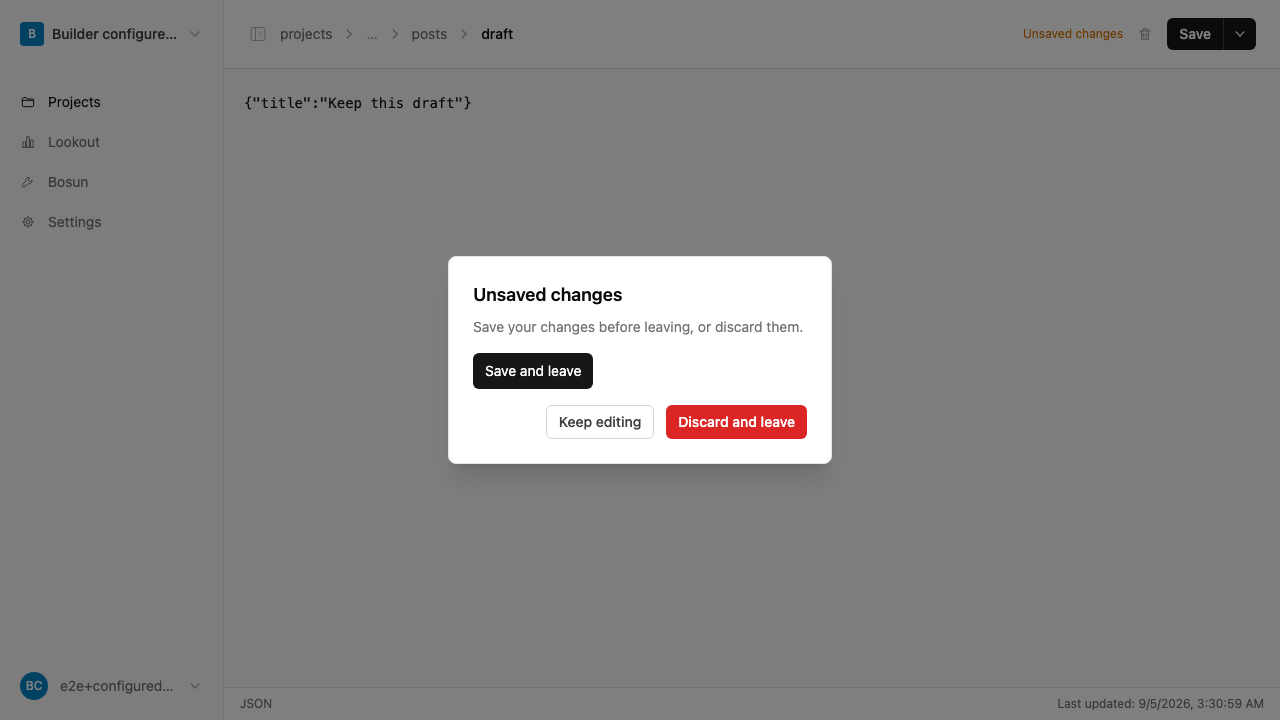
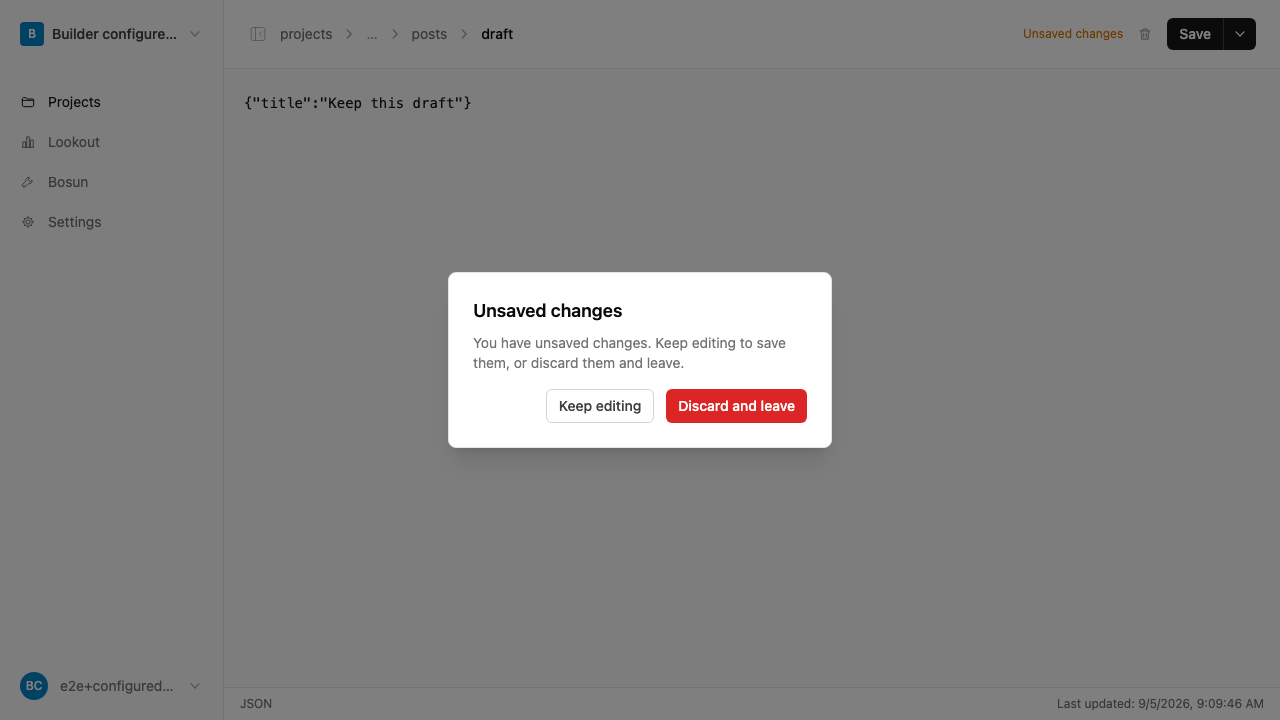
fix(ui): keep confirmations to two actions and use Klean alerts

Changed region(s): [[0.3438, 0.3361, 0.6562, 0.6417]]

diff --git a/tests/e2e/pages/projects/content-unsaved.test.js b/tests/e2e/pages/projects/content-unsaved.test.js
@@ -40,6 +40,9 @@ test(
       await source.fill('{"title":"Keep this draft"}')
       await page.raw.locator('[data-slot="breadcrumb"] a').first().click()
       await page.raw.getByRole('button', { name: 'Keep editing' }).waitFor()
+      await expect(
+        page.raw.getByRole('dialog').getByRole('button')
+      ).toHaveCount(2)
       fs.mkdirSync('.github/screenshots/audit-content-unsaved', {
         recursive: true
       })
@@ -60,16 +63,20 @@ test(
       expect(await source.inputValue()).toContain('Keep this draft')
       await source.fill('invalid JSON')
       await page.raw.locator('[data-slot="breadcrumb"] a').first().click()
-      await page.raw
-        .getByRole('button', { name: 'Save and leave', exact: true })
-        .click()
+      await page.raw.getByRole('button', { name: 'Keep editing' }).click()
+      await source.focus()
+      await page.key('ControlOrMeta+s')
       await page.raw.locator('#content-raw-error').waitFor()
       expect(await source.inputValue()).toBe('invalid JSON')
       await source.fill('{"title":"Keep this draft"}')
-      await page.raw.locator('[data-slot="breadcrumb"] a').first().click()
       await page.raw
-        .getByRole('button', { name: 'Save and leave', exact: true })
+        .locator('[data-test="content-save-menu"] button')
+        .first()
         .click()
+      await expect(
+        page.raw.getByRole('button', { name: 'Save', exact: true })
+      ).toBeDisabled()
+      await page.raw.locator('[data-slot="breadcrumb"] a').first().click()
       await page.raw.waitForURL((url) => url.pathname === '/')
       expect(
         fs.readFileSync(path.join(folder, 'draft.json'), 'utf8')
@@ -78,6 +85,13 @@ test(
       expect(
         await page.raw.getByRole('button', { name: 'Restore draft' }).count()
       ).toBe(0)
+      await source.fill('{"title":"Discard this edit"}')
+      await page.raw.locator('[data-slot="breadcrumb"] a').first().click()
+      await page.raw.getByRole('button', { name: 'Discard and leave' }).click()
+      await page.raw.waitForURL((url) => url.pathname === '/')
+      expect(
+        fs.readFileSync(path.join(folder, 'draft.json'), 'utf8')
+      ).toContain('Keep this draft')
       expect(page).toHaveNoJavascriptErrors()
     } finally {
       sails.config.custom.slipwayAppsDir = original

diff --git a/assets/js/pages/projects/content-editor.vue b/assets/js/pages/projects/content-editor.vue
@@ -71,7 +71,6 @@ let draftTimer
 let removeNavigationGuard
 let allowVisit = false
 let discardedOnLeave = false
-let leaveAfterSave = false
 
 function clearDraft() {
   try {
@@ -118,11 +117,6 @@ function leaveEditor() {
 }
 function cancelPendingVisit() {
   pendingVisit.value = null
-  leaveAfterSave = false
-}
-function saveAndLeave() {
-  leaveAfterSave = true
-  saveContent(false)
 }
 function beforeUnload(event) {
   persistDraft()
@@ -280,11 +274,8 @@ function submitContent() {
       }
       if (!hasChanges.value) clearDraft()
       else persistDraft()
-      if (leaveAfterSave && !hasChanges.value) leaveEditor()
-      leaveAfterSave = false
     },
     onError: () => {
-      leaveAfterSave = false
       pendingVisit.value = null
       showSaveMenu.value = true
     }
@@ -310,7 +301,6 @@ function saveContent(triggerDeploy = false) {
           ],
     onPrecognitionSuccess: submitContent,
     onValidationError: () => {
-      leaveAfterSave = false
       pendingVisit.value = null
       showSaveMenu.value = true
     }
@@ -413,25 +403,14 @@ function handleKeydown(e) {
     <ConfirmModal
       :show="Boolean(pendingVisit)"
       title="Unsaved changes"
-      message="Save your changes before leaving, or discard them."
+      message="You have unsaved changes. Keep editing to save them, or discard them and leave."
       confirm-label="Discard and leave"
       cancel-label="Keep editing"
       :destructive="true"
       :loading="saveForm.processing || saveForm.validating"
       @confirm="leaveEditor"
       @cancel="cancelPendingVisit"
-    >
-      <template #form
-        ><button
-          type="button"
-          class="mt-4 rounded-md bg-gray-900 px-3 py-2 text-sm text-white dark:bg-white dark:text-gray-900"
-          :disabled="saveForm.processing || saveForm.validating"
-          @click="saveAndLeave"
-        >
-          Save and leave
-        </button></template
-      >
-    </ConfirmModal>
+    />
     <!-- Header -->
     <div
       class="flex items-center justify-between gap-2 border-b border-gray-200 px-3 py-2 dark:border-gray-800 sm:px-6 sm:py-3"

diff --git a/assets/js/pages/projects/environment-settings.vue b/assets/js/pages/projects/environment-settings.vue
@@ -1,4 +1,5 @@
 <script setup>
+import Alert from '@/components/ui/alert/Alert.vue'
 import {
   mutationFailureMessage,
   assertMutationResponse
@@ -80,7 +81,6 @@ async function save() {
     }
   } catch (error) {
     saveError.value = mutationFailureMessage(error)
-    toast({ message: saveError.value, type: 'error' })
   } finally {
     saving.value = false
   }
@@ -258,14 +258,15 @@ function openDeleteEnvironment() {
                 saving ? 'Saving...' : saveError ? 'Retry save' : 'Save changes'
               }}
             </button>
-            <p
+            <Alert
               v-if="saveError"
               role="alert"
               data-test="environment-save-error"
-              class="order-first w-full text-sm text-red-600 dark:text-red-400"
+              class="order-first border border-red-200 bg-red-50 text-red-900 dark:border-red-900/60 dark:bg-red-950/30 dark:text-red-200"
             >
-              {{ saveError }}
-            </p>
+              <p class="font-medium">Save interrupted</p>
+              <p class="mt-1 leading-6">{{ saveError }}</p>
+            </Alert>
           </div>
         </form>
 

diff --git a/assets/js/pages/settings/instance.vue b/assets/js/pages/settings/instance.vue
@@ -1,4 +1,5 @@
 <script setup>
+import Alert from '@/components/ui/alert/Alert.vue'
 import SidebarOpen from '@/components/ui/icons/SidebarOpen.vue'
 import SidebarClose from '@/components/ui/icons/SidebarClose.vue'
 import ExternalLink from '@/components/ui/icons/ExternalLink.vue'
@@ -101,13 +102,14 @@ function save() {
         </div>
 
         <form @submit.prevent="save" class="space-y-6">
-          <p
+          <Alert
             v-if="form.errors.routing"
             role="alert"
-            class="text-sm text-red-600 dark:text-red-400"
+            class="border border-red-200 bg-red-50 text-red-900 dark:border-red-900/60 dark:bg-red-950/30 dark:text-red-200"
           >
-            {{ form.errors.routing }}
-          </p>
+            <p class="font-medium">Routing update failed</p>
+            <p class="mt-1 leading-6">{{ form.errors.routing }}</p>
+          </Alert>
           <!-- Instance Name -->
           <div class="rounded-lg border border-gray-200 dark:border-gray-800">
             <div class="px-4 py-3">

diff --git a/tests/e2e/pages/projects/settings-offline.test.js b/tests/e2e/pages/projects/settings-offline.test.js
@@ -30,6 +30,10 @@ test(
     })
     await page.raw.getByRole('button', { name: 'Save changes' }).click()
     await page.raw.locator('[data-test="environment-save-error"]').waitFor()
+    await expect(
+      page.raw.locator('[data-test="environment-save-error"]')
+    ).toHaveAttribute('data-slot', 'alert')
+    await expect(page.raw.getByRole('alert')).toHaveCount(1)
     expect(await page.raw.locator('#name').inputValue()).toBe(
       'Edited while offline'
     )

diff --git a/tests/e2e/pages/settings/routing-failure.test.js b/tests/e2e/pages/settings/routing-failure.test.js
@@ -28,6 +28,10 @@ test(
       await expect(page).toSee(
         'Could not apply routing settings. Previous settings were preserved. Check Caddy and retry'
       )
+      await expect(page.raw.getByRole('alert')).toHaveAttribute(
+        'data-slot',
+        'alert'
+      )
       expect(
         await page.raw.getByRole('button', { name: 'Retry apply' }).isEnabled()
       ).toBe(true)

diff --git a/assets/js/components/ConfirmModal.vue b/assets/js/components/ConfirmModal.vue
@@ -70,6 +70,7 @@ function handleOpenChange(open) {
     <p :id="messageId" class="mt-2 text-sm text-gray-500 dark:text-gray-400">
       {{ message }}
     </p>
+    <!-- Form fields only: keep dialogs to the two actions in the footer. -->
     <slot name="form" />
     <div class="mt-4 flex justify-end gap-3">
       <Button

diff --git a/docs/content-draft-recovery.md b/docs/content-draft-recovery.md
@@ -1,8 +1,9 @@
 # Unsaved content
 
-Content Manager warns before leaving a dirty editor. Save and leave continues
-only after a successful save; validation and server failures keep the editor
-open. Edits made while a save is in flight remain unsaved.
+Content Manager warns before leaving a dirty editor with exactly two actions:
+Keep editing or Discard and leave. Save from the editor before navigating away;
+validation and server failures preserve edits. Edits made while a save is in
+flight remain unsaved.
 
 A recovery copy is kept in session storage for the current tab, scoped to the
 signed-in user, project, environment, app, collection, and file. It expires after
